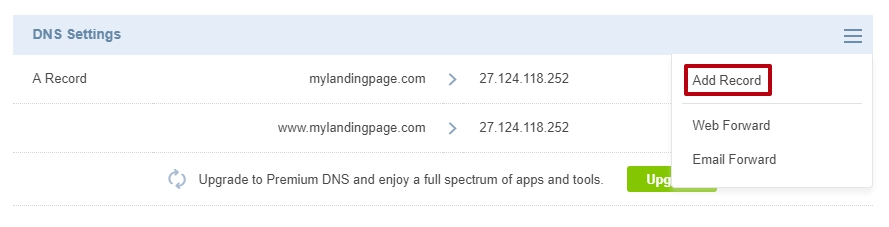
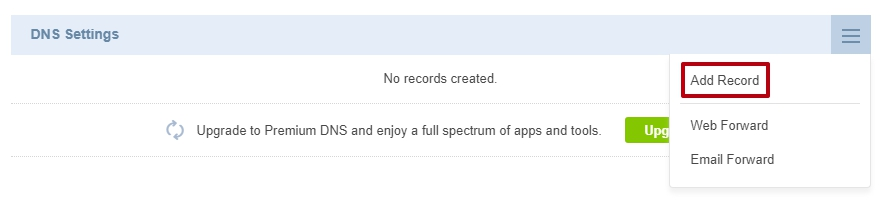
..

diff --git a/publishing/third-party-domains/crazy-domains2/index.rst b/publishing/third-party-domains/crazy-domains2/index.rst
@@ -65,7 +65,6 @@ If you purchased a domain from Crazy Domains, you can use it for your BitBlox La
 	
 	
 	
-	
 10. Click on your selected Domain Name
 
 	
@@ -74,177 +73,52 @@ If you purchased a domain from Crazy Domains, you can use it for your BitBlox La
 		|crazydomains-click-domain-name|	
 	
 	
+11. In the main page, scroll down to **DNS Settings** section. Delete **A Record** and then click **Update**
+
+
+	.. class:: screenshot
+
+		|crazydomains-delete-a-record|	
+
 	
-11. In the main page, scroll down to **DNS Settings** section and click **Add Record** 
+12. Click **Add Record** 
 
     .. class:: screenshot
 
 		|crazydomain-add-record|
 
 
-4. Select **A Record** from the drop-down menu, then click **Add** 
+13. Select **CNAME** from the drop-down menu, then click **Add** 
 
     .. class:: screenshot
 
-		|crazydomain-add-a-record|
+		|crazydomains-add-cname|
 
-5. Leave the **Sub Domain** box blank
-6. In the **Alias For** box, enter	BitBlox's IP address ``162.243.77.151``
-7. Click **Update**
-
-    .. class:: screenshot
+		
+14. Enter the name of your page (ex: ``bitbloxkb-lzj29.bitblox.online``) and click **Save** button
 	
-	    |crazydomain-save-a-record|
+	.. class:: screenshot
 
-8. In the **DNS Setting** , select **Add Record** 
-
-    .. class:: screenshot
-
-		|crazydomain-add-cname-record|
-
-9. Select **CNAME Record** from the drop-down menu, then click **Add** 
-
-    .. class:: screenshot
-
-		|crazydomain-add-cname|
-
-		
-10. In the **Sub Domain** box, enter **www**
-11. In the **Alias For** box, enter your domain name (ex: ``mylandingpage.com``)
-12. Click **Update**
-
-    .. class:: screenshot
-
-		|crazydomain-save-cname-record|
+		|crazydomain-enter-bitblox-page|
 
 
-		
-13. In your BitBlox account, click **Edit Page** on your landing page. 
-
-     .. class:: screenshot
-
-		|bitblox-click-edit-page|
-
-		
-
-14. Open the **Sidebar** and click the **Settings** icon
+15. In your BitBlox account, click **Refresh** button on the DNS Settings:
 
 
-    .. class:: screenshot
+.. class:: screenshot
 
-		|bitblox-click-settings|
+		|click-refresh-bitblox|
 
-		
-15. Click **Settings** tab and then click **3rd Party Domain** tab
-
-
-    .. class:: screenshot
-
-		|bitblox-click-3-rd-party-domain|
-
-16. In the **Domain Name** box enter the full domain name you want to link (ex: ``mylandingpage.com``), and then click **Connect Domain** button
-
-
-    .. class:: screenshot
-
-		|bitblox-connect-domain|
-    
-17. After you've claimed your domain, a new panel will be opened with the records from your provider domain account (it can take upt o 48 hours for changes to take effect)
-
+14. If your records are entered correctly, the Current Data will be green   
 	
-    .. class:: screenshot
-
-		|bitblox-dns-settings|
 	
-18. If your records are entered correctly, the **Current Data** will be green
+	.. class:: screenshot
 
-    .. class:: screenshot
-
-		|bitblox-click-refresh|
-
-    .. note::
-
-		After you've claimed your domain, it can take up to 48 hours for changes to take effect. If it takes more than 48 hours, you should contact your custom domain provider
-
-		
-
-Set up your subdomain with Crazy Domains
-------
-
-1. `Log in to your Crazy Domains account <https://www.crazydomains.com/>`__ 
-2. In the **Main Menu**, click **Domains**:
-
-    .. class:: screenshot
-
-		|crazydomains-click-domains|
-		
-
-3. In the main page, scroll down to **DNS Settings** section and click **Add Record** 
-
-    .. class:: screenshot
-
-		|crazydomain-add-record|
-
-
-4. Select **A Record** from the drop-down menu, then click **Add** 
-
-    .. class:: screenshot
-
-		|crazydomain-add-a-record|
-
-
-5. In the **Sub Domain** box, enter your subdomain prefix (if you picked ``promo.mydomain.com`` as your sudomain, enter ``promo``)
-6. In the **Alias For** box, enter	BitBlox's IP address ``162.243.77.151``
-7. Click **Update**
-		
-    .. class:: screenshot
-
-		|crazydomain-save-subdomain|	
-
-		
-8. In your BitBlox account, click **Edit Page** on your landing page. 
-
-     .. class:: screenshot
-
-		|bitblox-click-edit-page|
-
-		
-		
-9.  Open the **Sidebar** and click the **Settings** icon
-
-
-    .. class:: screenshot
-
-		|bitblox-click-settings|
-		
-10. Click **Settings** tab and then click **3rd Party Domain** tab
-
-
-    .. class:: screenshot
-
-		|bitblox-click-3-rd-party-domain|
-
-11. In the **Domain Name** box enter the full domain name you want to link  (ex: ``promo.mydomain.com``), and then click **Connect Domain** button
-
-    .. class:: screenshot
-
-		|bitblox-subdomain-click-connect-domain|
-    
-12. After you've claimed your domain, a new panel will be opened with the records from your provider domain account (it can take upt o 48 hours for changes to take effect)
-
+		|bitblox-green|	
 	
-    .. class:: screenshot
-
-		|bitblox-subdomain-dns-settings|
 	
-13. If your records are entered correctly, the **Current Data** will be green
-
-    .. class:: screenshot
-
-		|bitblox-subdomain-refresh|
-
-
-    .. note::
+	
+	.. note::
 
 	After you've claimed your domain, it can take up to 48 hours for changes to take effect. If it takes more than 48 hours, you should contact your custom domain provider.
 		
@@ -264,4 +138,11 @@ For more help with settings in your Crazy Domain account, contact their `support
 
 .. |crazydomains-click-domains| image:: _images/crazydomains-click-domains.png
 .. |crazydomains-click-domain-name| image:: _images/crazydomains-click-domain-name.jpg
+.. |crazydomains-delete-a-record|	image:: _images/detelete-a-record.jpg
+
+
 .. |crazydomains-add-record|	image:: _images/crazydomains-add-record.jpg
+.. |crazydomains-add-cname|  image:: _images/crazydomains-add-cname.jpg
+.. |crazydomain-enter-bitblox-page| image:: _images/crazydomain-enter-bitblox-page.jpg
+.. |click-refresh-bitblox| image:: _images/click-refresh-bitblox.jpg
+.. |bitblox-green|	image:: _images/bitblox-green.jpg
